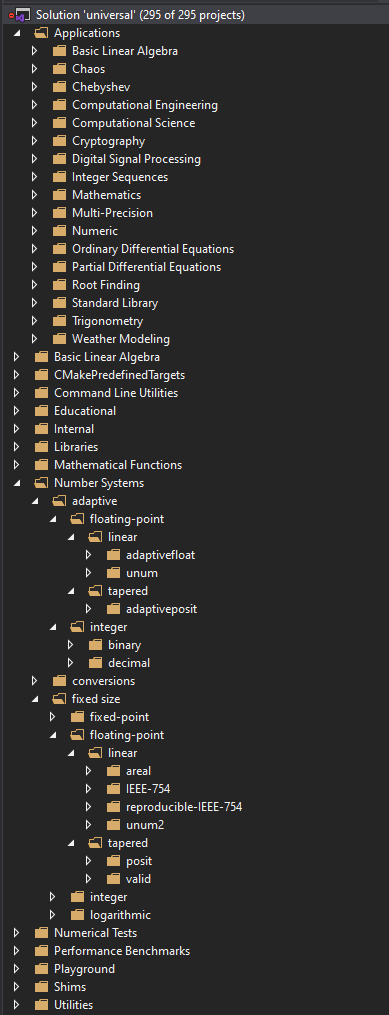
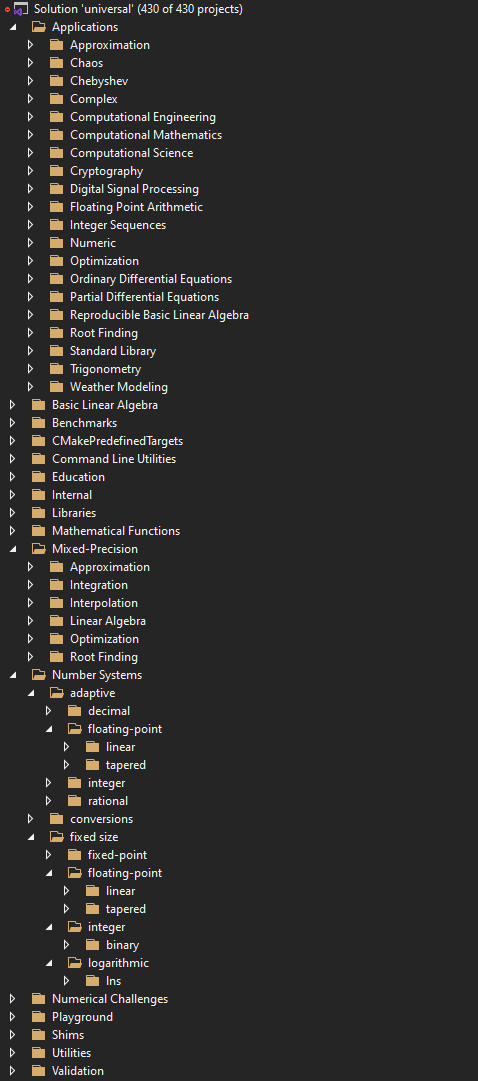
update readme with new project structure and badges

Changed region(s): [[0.0, 0.0, 1.0, 1.0], [0.0308, 0.5498, 0.0617, 0.5803], [0.0, 0.6108, 0.0308, 0.6414]]

diff --git a/README.md b/README.md
@@ -1,15 +1,15 @@
 # Universal: a header-only C++ template library for universal number arithmetic
 
-[![Codacy Badge](https://api.codacy.com/project/badge/Grade/25452f0319d34bc2a553cd1857d7dfae)](https://app.codacy.com/gh/stillwater-sc/universal?utm_source=github.com&utm_medium=referral&utm_content=stillwater-sc/universal&utm_campaign=Badge_Grade_Dashboard)
-[![Awesome Cpp](https://awesome.re/mentioned-badge.svg)](https://github.com/fffaraz/awesome-cpp#math)
-[![FOSSA Status](https://app.fossa.com/api/projects/git%2Bgithub.com%2Fstillwater-sc%2Funiversal.svg?type=shield)](https://app.fossa.com/projects/git%2Bgithub.com%2Fstillwater-sc%2Funiversal?ref=badge_shield)
-[ ![Codeship Status for stillwater-sc/universal](https://app.codeship.com/projects/22533f00-252a-0136-2ba6-6657a5454f61/status?branch=master)](https://app.codeship.com/projects/286490)
-[![Coverage Status](https://coveralls.io/repos/github/stillwater-sc/universal/badge.svg?branch=master)](https://coveralls.io/github/stillwater-sc/universal?branch=master)
 
 | **System** | **Status** | **More information** |
 |------------|------------|----------------------|
-| [Codeship](https://app.codeship.com/projects/286490)  | ![Codeship Status for stillwater-sc/universal](https://app.codeship.com/projects/22533f00-252a-0136-2ba6-6657a5454f61/status?branch=master) | Docker container build |
-| [GitHub Actions](https://github.com/stillwater-sc/universal/actions) | [![Build Status](https://github.com/stillwater-sc/universal/actions/workflows/cmake.yml/badge.svg?branch=main)](https://github.com/stillwater-sc/universal) | Latest Linux/MacOS/Windows |
+| [Codacy Code Quality](https://app.codacy.com/gh/stillwater-sc/universal/dashboard) | [![Codacy Badge](https://api.codacy.com/project/badge/Grade/25452f0319d34bc2a553cd1857d7dfae)](https://app.codacy.com/gh/stillwater-sc/universal?utm_source=github.com&utm_medium=referral&utm_content=stillwater-sc/universal&utm_campaign=Badge_Grade_Dashboard) | Code Quality Assessment |
+| [FOSSA Status](https://app.fossa.com/projects/git%2Bgithub.com%2Fstillwater-sc%2Funiversal) | [![FOSSA Status](https://app.fossa.com/api/projects/git%2Bgithub.com%2Fstillwater-sc%2Funiversal.svg?type=shield)](https://app.fossa.com/projects/git%2Bgithub.com%2Fstillwater-sc%2Funiversal?ref=badge_shield) | Open-source license dependency scanner |
+| [Codeship](https://app.codeship.com/projects/286490)  | ![Codeship Status for stillwater-sc/universal](https://app.codeship.com/projects/22533f00-252a-0136-2ba6-6657a5454f61/status?branch=master) | Docker container build and regression |
+| [GitHub Actions](https://github.com/stillwater-sc/universal/actions) | [![Build Status](https://github.com/stillwater-sc/universal/actions/workflows/cmake.yml/badge.svg?branch=main)](https://github.com/stillwater-sc/universal) | Latest Linux/MacOS/Windows builds and regression tests |
+| [Code Coverage](https://coveralls.io) | [![Coverage Status](https://coveralls.io/repos/github/stillwater-sc/universal/badge.svg?branch=master)](https://coveralls.io/github/stillwater-sc/universal?branch=master) | Code coverage scanner |
+
+[![Awesome Cpp](https://awesome.re/mentioned-badge.svg)](https://github.com/fffaraz/awesome-cpp#math)
 
 The goal of the Universal Numbers Library is to offer applications alternatives to IEEE floating-point that are more efficient and mathematically robust.
 
@@ -383,20 +383,27 @@ Arithmetic tests 200000 randoms each
 
 ## Structure of the tree
 
-The universal library contains a set of functional groups to deal with different number systems. In the examples shown above, we have seen the ".../universal/include/universal/posit" group and its test suite, ".../universal/tests/posit". 
+The universal library contains a set of functional groups to organize the development and validation of different number systems. 
+In the examples shown above, we have seen the ".../universal/include/universal/number/posit/posit.hpp" group and its test suite, ".../universal/tests/posit". 
 
 Here is a complete list:
 
+### fixed-sized configurations
+
 - *universal/number/integer* - arbitrary configuration fixed-size integer
 - *universal/number/fixpnt* - arbitrary configuration fixed-size fixed-point number system
-- *universal/number/areal* - arbitrary configuration fixed-size linear floating-point
-- *universal/number/posit* - arbitrary configuration fixed-size posit number system
-- *universal/number/valid* - arbitrary configuration fixed-size valid number system
+- *universal/number/areal* - arbitrary configuration fixed-size faithful floating-point with uncertainty bit
+- *universal/number/cfloat* - arbitrary configuration fixed-size classic floating-point number system
+- *universal/number/posit* - arbitrary configuration fixed-size posit number system, a tapered floating-point
+- *universal/number/valid* - arbitrary configuration fixed-size valid number system, a tapered floating-point interval number system
 - *universal/number/quire* - arbitrary configuration fixed-size super accumulator number system (add/sub/abs/sqrt)
 - *universal/number/unum* - flexible configuration unum Type 1 number system
 - *universal/number/unum2* - flexible configuration unum Type 2 number system
 - *universal/number/lns* - logarithmic number system
 - *universal/number/float* - contains the implementation of the IEEE floating point augmentations for reproducible computation
+
+### adaptive precision configurations
+
 - *universal/number/decimal* - adaptive-precision decimal
 - *universal/number/rational* - adaptive-precision rational number system
 - *universal/number/adaptiveint* - adaptive-precision binary integer
